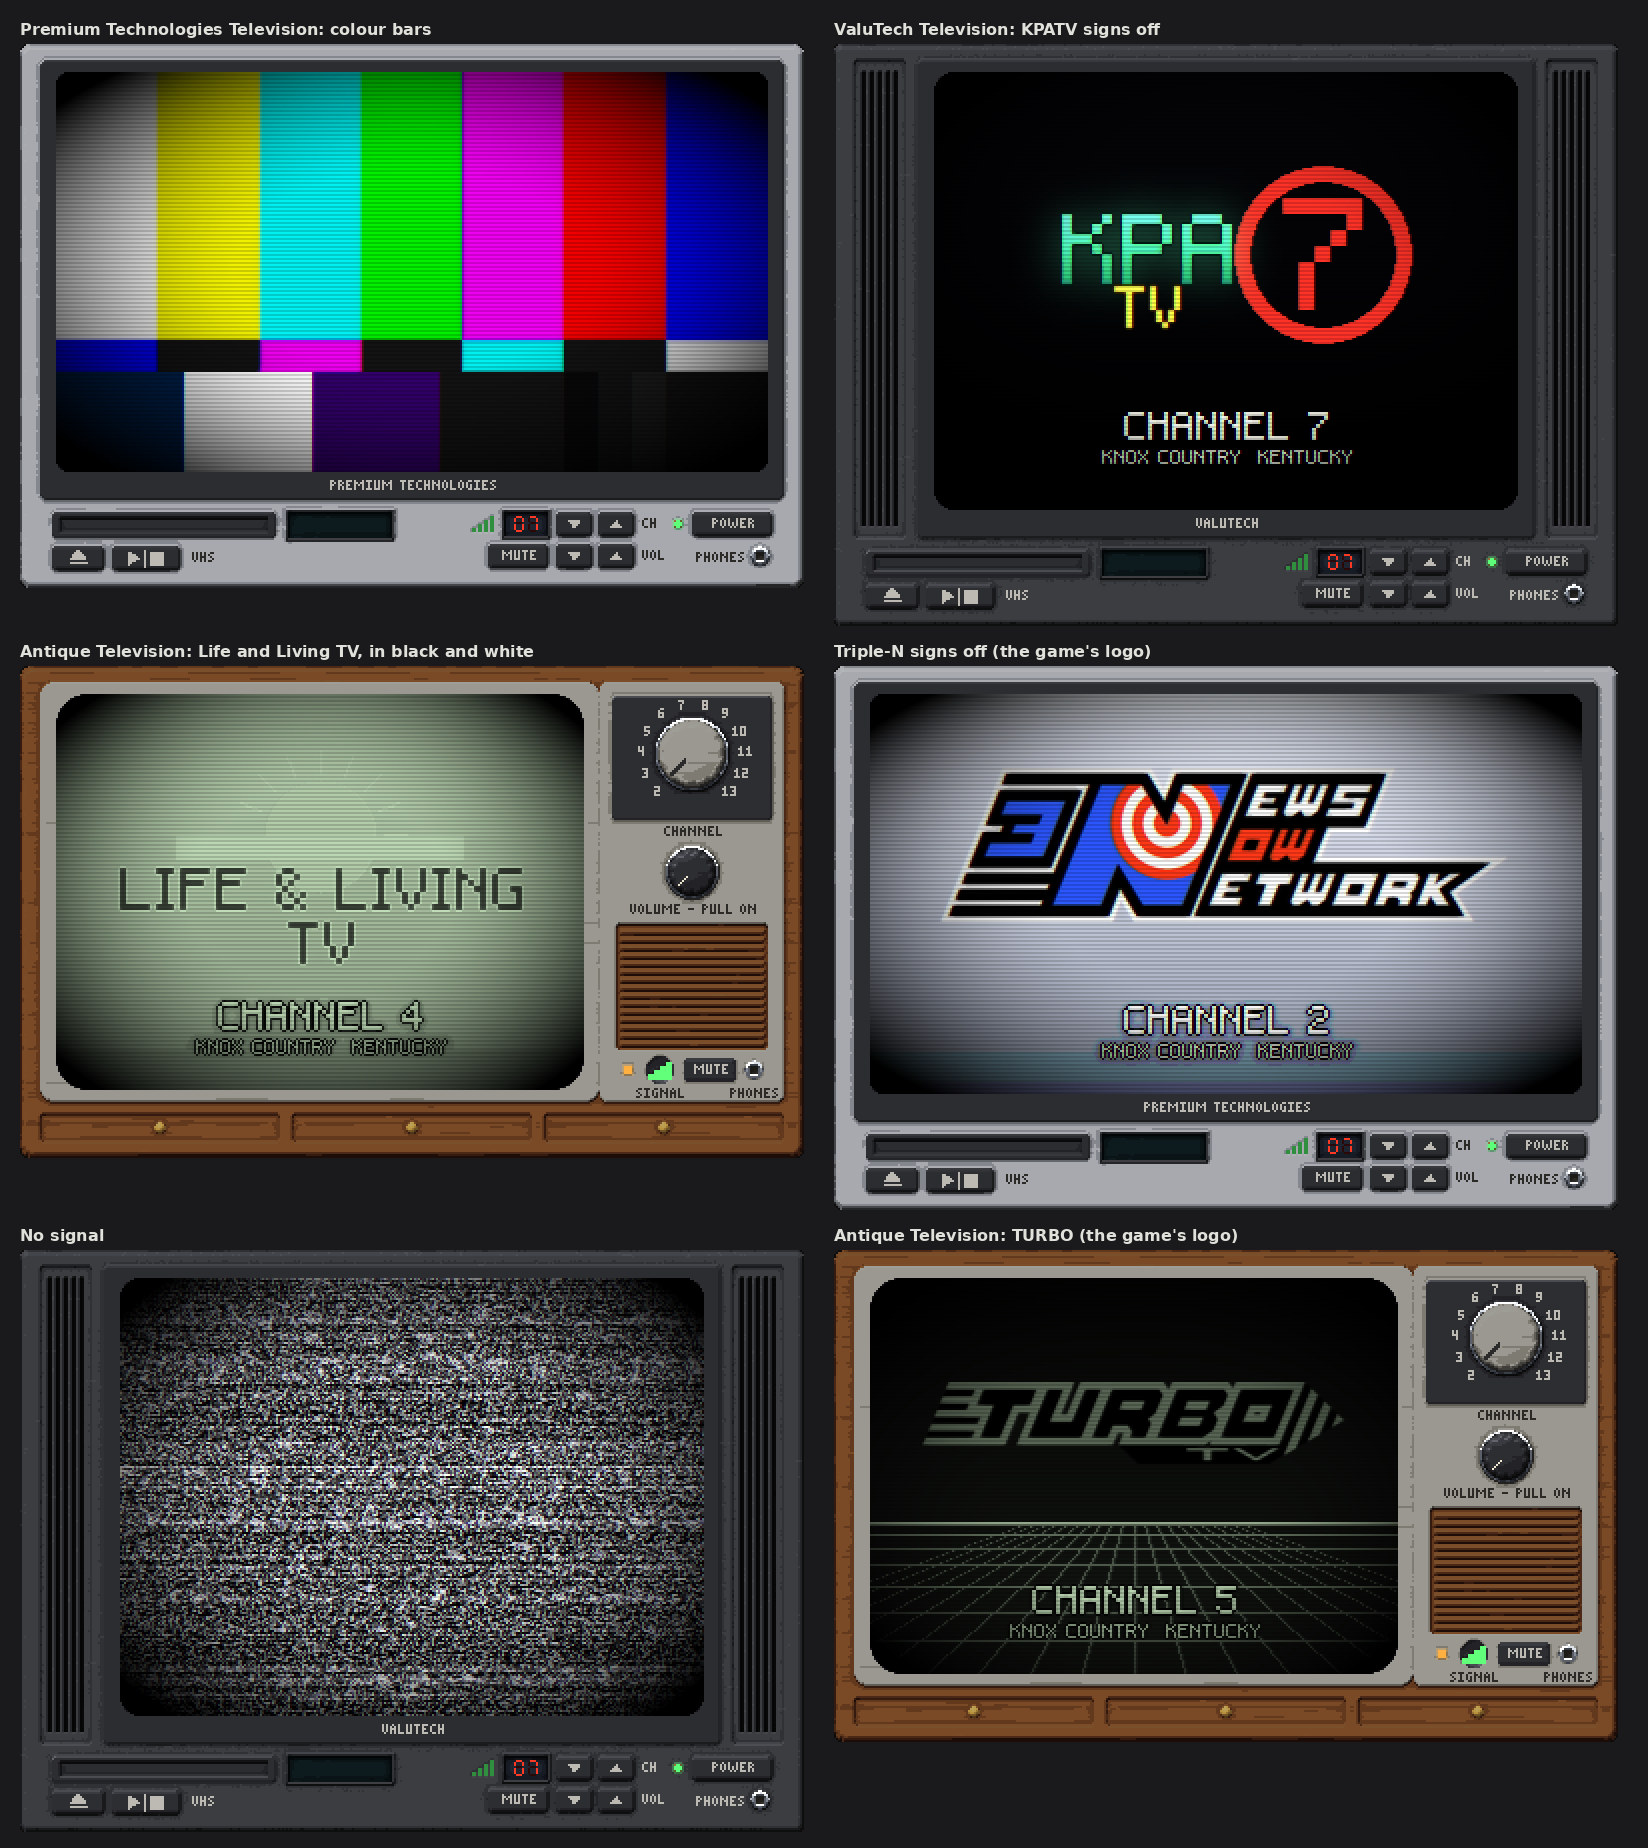
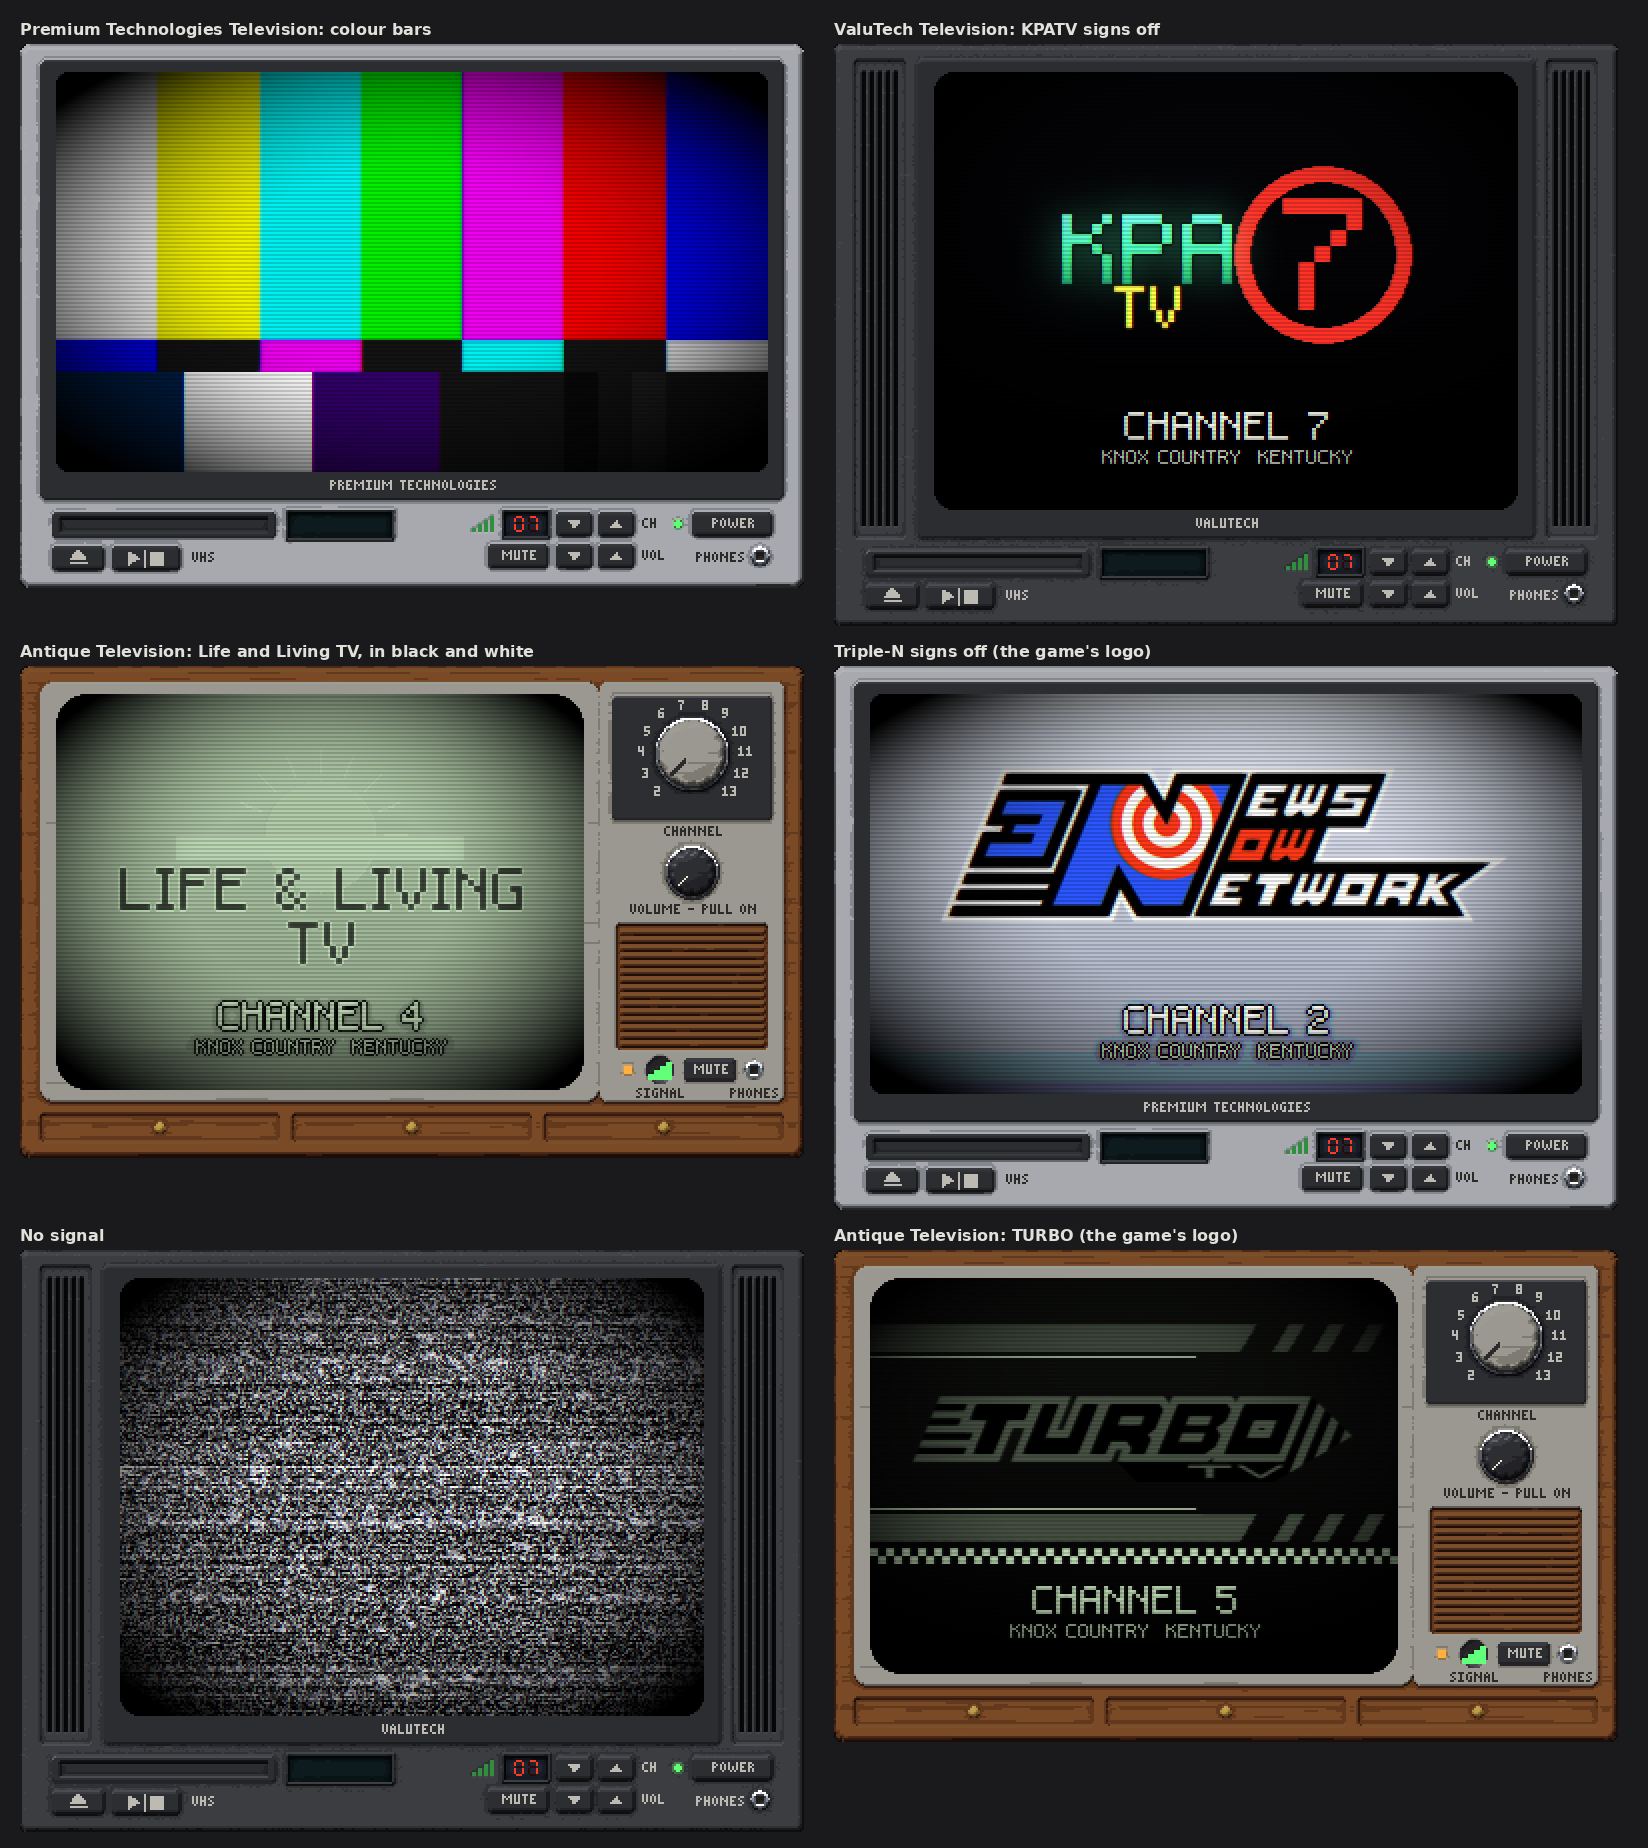
Design: TURBO card black and red; GBC card with a profile head
TURBO (director: like the car shows of the day, black and red): black set, red
racing bands with a pinstripe and slashed ends, a chequered strip; the game's own
logo drawn with a red tint (LOGO_TINT) so its orange matches. GBC (director: a
head profile that hints at the old public-television logo): a face in profile
looking right with two echoes stepping back behind it, beside the name.

Claude-Session: https://claude.ai/code/session_015Lv8fXDH1kuxg46sEw6iLh

Changed region(s): [[0.5261, 0.7094, 0.8665, 0.8945]]

diff --git a/ZeDUI/tools/physpx/offair.py b/ZeDUI/tools/physpx/offair.py
@@ -36,7 +36,9 @@ COUNTY = "KNOX COUNTRY, KENTUCKY"
 # inside, keeping its shape. Triple-N's is its "3N News Now Network" (also on its van and its billboard).
 GAME_LOGOS = {"triple_n": "media/textures/printMedia/logos/ENewsNowNetwork.png",
               "turbo": "media/textures/printMedia/logos/TurboTV.png"}
-LOGO_BOX = {"triple_n": (0.10, 0.16, 0.80, 0.44), "turbo": (0.10, 0.20, 0.80, 0.34)}
+LOGO_BOX = {"triple_n": (0.10, 0.16, 0.80, 0.44), "turbo": (0.08, 0.25, 0.84, 0.32)}
+# a tint multiplied into the game's picture (the texture drawn with this colour): TURBO's orange taken to the card's red
+LOGO_TINT = {"turbo": (1.0, 0.42, 0.40)}
 GAME_ROOT = None          # where the game's media/ lives, to draw the logo into review pictures (None: leave the box empty)
 
 
@@ -258,18 +260,31 @@ def signoff(cid, w, h):
         text(a, "LIFE & LIVING", cx, cy + s, max(1, s - 1), (120, 30, 70), outline=(255, 240, 230))
         text(a, "TV", cx, cy + s + 9 * max(1, s - 1), max(1, s - 1), (120, 30, 70), outline=(255, 240, 230))
     elif cid == "turbo":
-        a = card_frame(w, h, (10, 0, 30), (60, 0, 80))
-        hy = int(h * 0.62)                                                                 # the neon grid to the horizon
-        for k in range(1, 9):
-            y = hy + int((h - hy) * (k / 8) ** 1.8)
-            rect(a, 0, y, w, 1, (255, 40, 200))
-        for k in range(-10, 11):
-            x0 = cx + k * (w // 10)
-            for y in range(hy, h):
-                t = (y - hy) / max(1, h - hy)
-                x = int(cx + (x0 - cx) * (0.2 + 0.8 * t))
-                if 0 <= x < w: a[y, x] = np.array((255, 40, 200), np.float32) / 255
-        rect(a, 0, hy, w, 1, (120, 220, 255))
+        # the car shows' look of the day (director, Oct 30 2026: "like motor trend from the day. black and red"): a black
+        # set, a slanted red racing band above and below the name with a white pinstripe, the band's end cut in speed
+        # slashes, a chequered strip under it all
+        a = card_frame(w, h, (24, 22, 22), (0, 0, 0))
+        RED, WHITE = (200, 22, 26), (235, 235, 230)
+
+        def band(y0, th, slant, end_cut):
+            for yy in range(th):
+                off = int((th - yy) * slant)
+                x1 = w - end_cut + off
+                rect(a, 0, y0 + yy, max(0, x1), 1, RED)
+                for k in range(3):                                         # the band's end in three slashes
+                    sx = x1 + 4 * s + k * 5 * s
+                    rect(a, sx, y0 + yy, 2 * s, 1, RED)
+
+        th = max(4, int(h * 0.075))
+        band(int(h * 0.12), th, 0.6, int(w * 0.30))
+        rect(a, 0, int(h * 0.12) + th + 2, int(w * 0.62), 1, WHITE)
+        band(int(h * 0.60), th, 0.6, int(w * 0.30))
+        rect(a, 0, int(h * 0.60) - 3, int(w * 0.62), 1, WHITE)
+        cs = max(3, s)                                                     # the chequered strip
+        cy0 = int(h * 0.60) + th + 3
+        for k in range(0, w // cs + 1):
+            for r in range(2):
+                if (k + r) % 2 == 0: rect(a, k * cs, cy0 + r * cs, cs, cs, WHITE)
         game_logo(a, cid)
     elif cid == "paws":
         a = card_frame(w, h, (40, 120, 70), (10, 50, 30))
@@ -351,6 +366,7 @@ def game_logo(a, cid):
     lg = lg.resize((max(1, int(lg.width * k)), max(1, int(lg.height * k))), _I.LANCZOS)
     x0, y0 = bx + (bw - lg.width) // 2, by + (bh - lg.height) // 2
     rgb = np.asarray(lg, np.float32) / 255
+    if cid in LOGO_TINT: rgb[..., :3] *= np.array(LOGO_TINT[cid], np.float32)
     al = rgb[..., 3:4]
     reg = a[y0:y0 + lg.height, x0:x0 + lg.width]
     reg[:] = reg * (1 - al) + rgb[..., :3] * al
